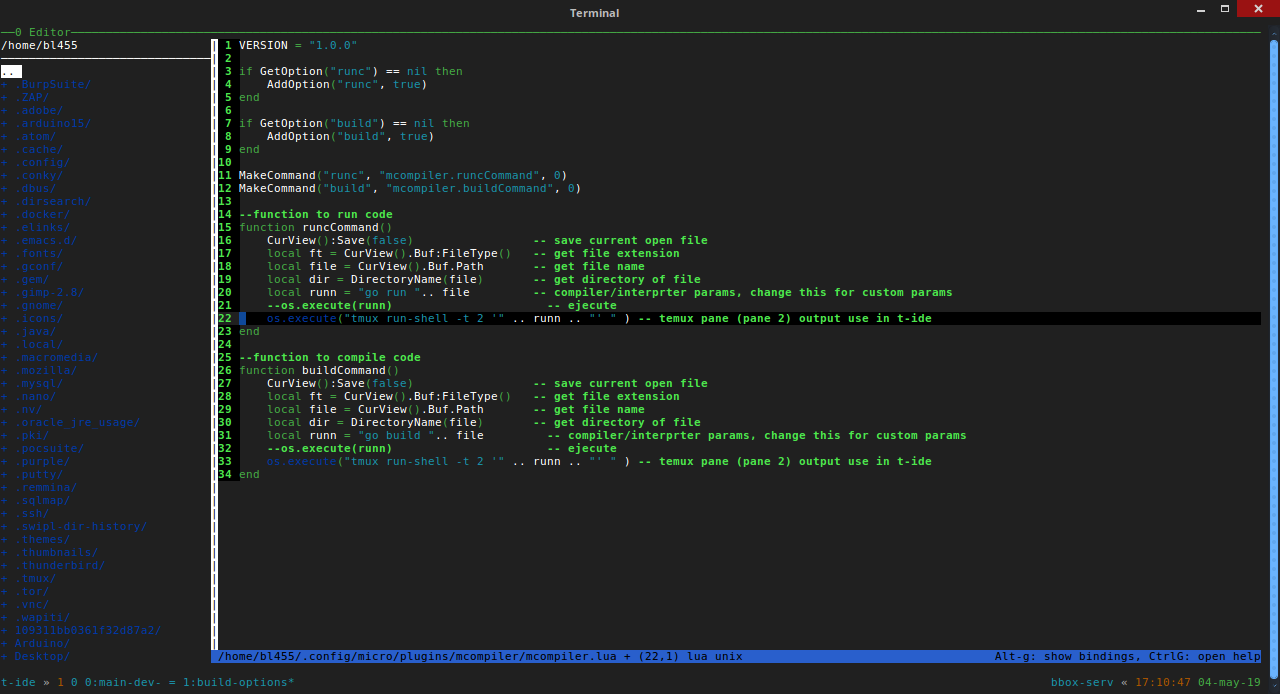
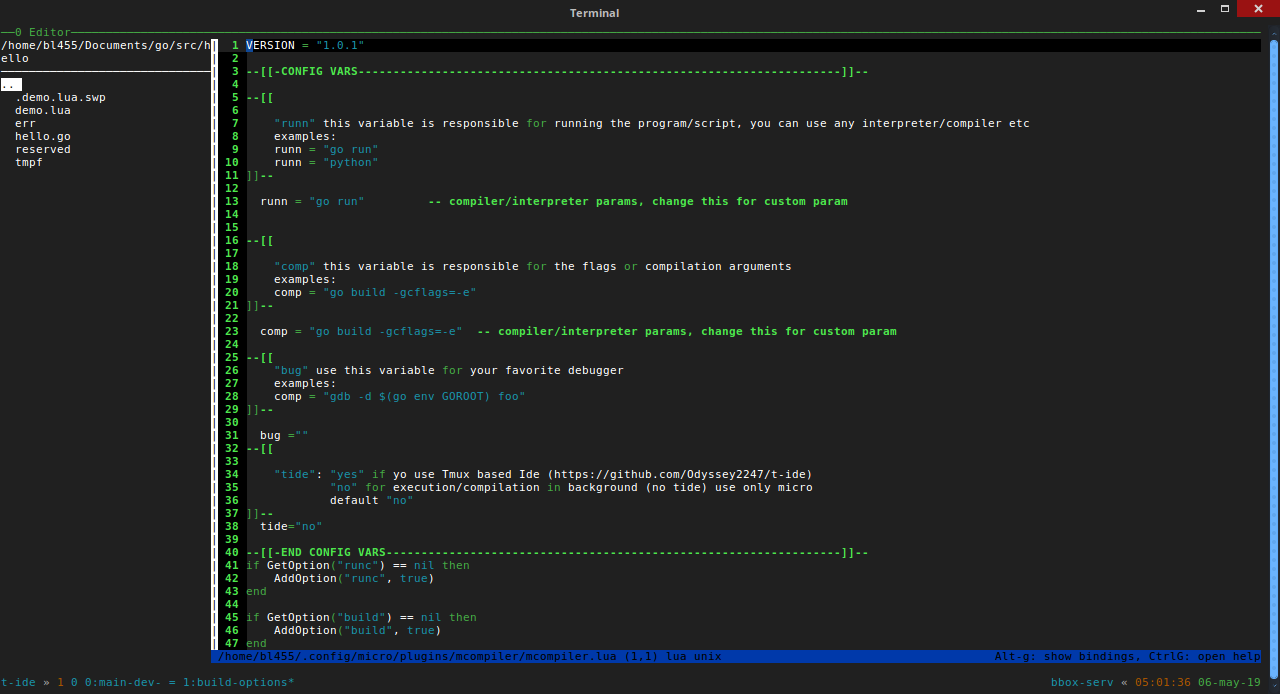
update README

Changed region(s): [[0.0625, 0.0303, 1.0, 0.9986], [0.0, 0.0605, 0.0938, 0.9683], [0.4375, 0.1513, 0.7812, 0.1816]]

diff --git a/README.md b/README.md
@@ -55,17 +55,7 @@ this windows contains text editor(micro) pane, command pane, debug/info/output p
 ![](config.png)
 
 This window opens the main configuration of the mcompiler plugin to 
-be configured with custom parameters for commands "runc" and "build"
-in this windows change this:
- 
-    os.execute(runn)                       
-    --os.execute("tmux run-shell -t 2 '" .. runn .. "' " )
-
-for this:
- 
-    --os.execute(runn)
-    os.execute("tmux run-shell -t 2 '" .. runn .. "' " )
-	
+be configured with custom parameters for commands "runc", "build", "bug"
 to get all the output in panel 2 of the main window
 this file is in
 
@@ -75,6 +65,7 @@ to compile or run your code open command mode in micro (ctrl+e) and use commands
 
     runc   //run your code 
     build  //build yourcode
+    debug  //debug yourcode
     
 the output of the commands is shown in panel 2 (debug/info/output pane)
 use the keybindings of tmux to move between the panels and or modify the panels
